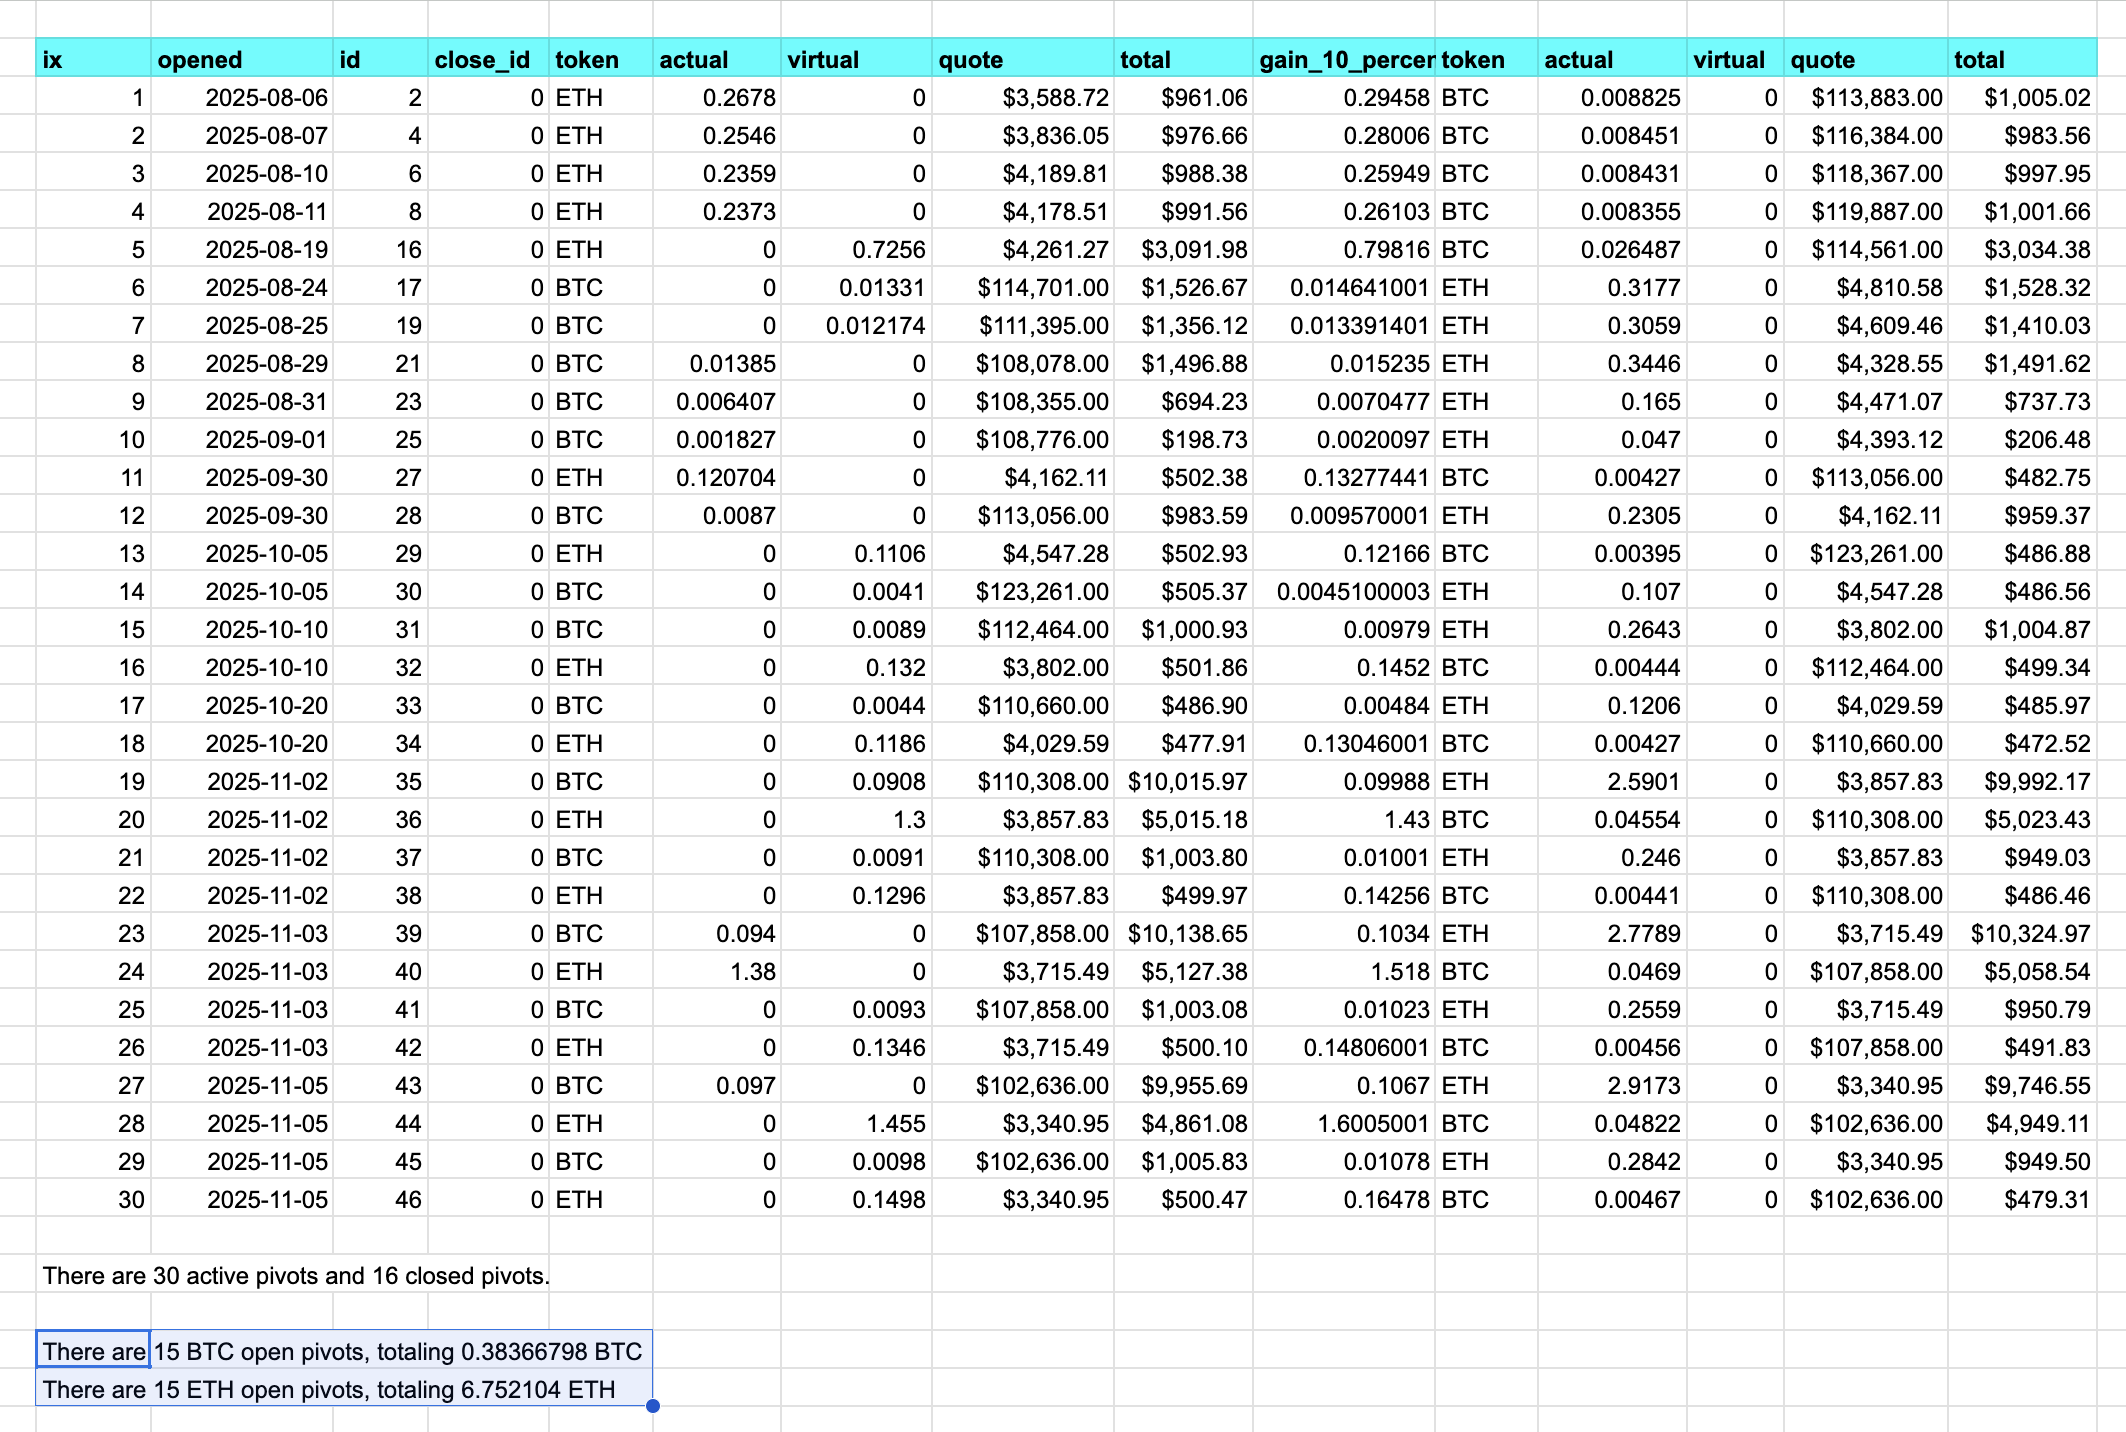
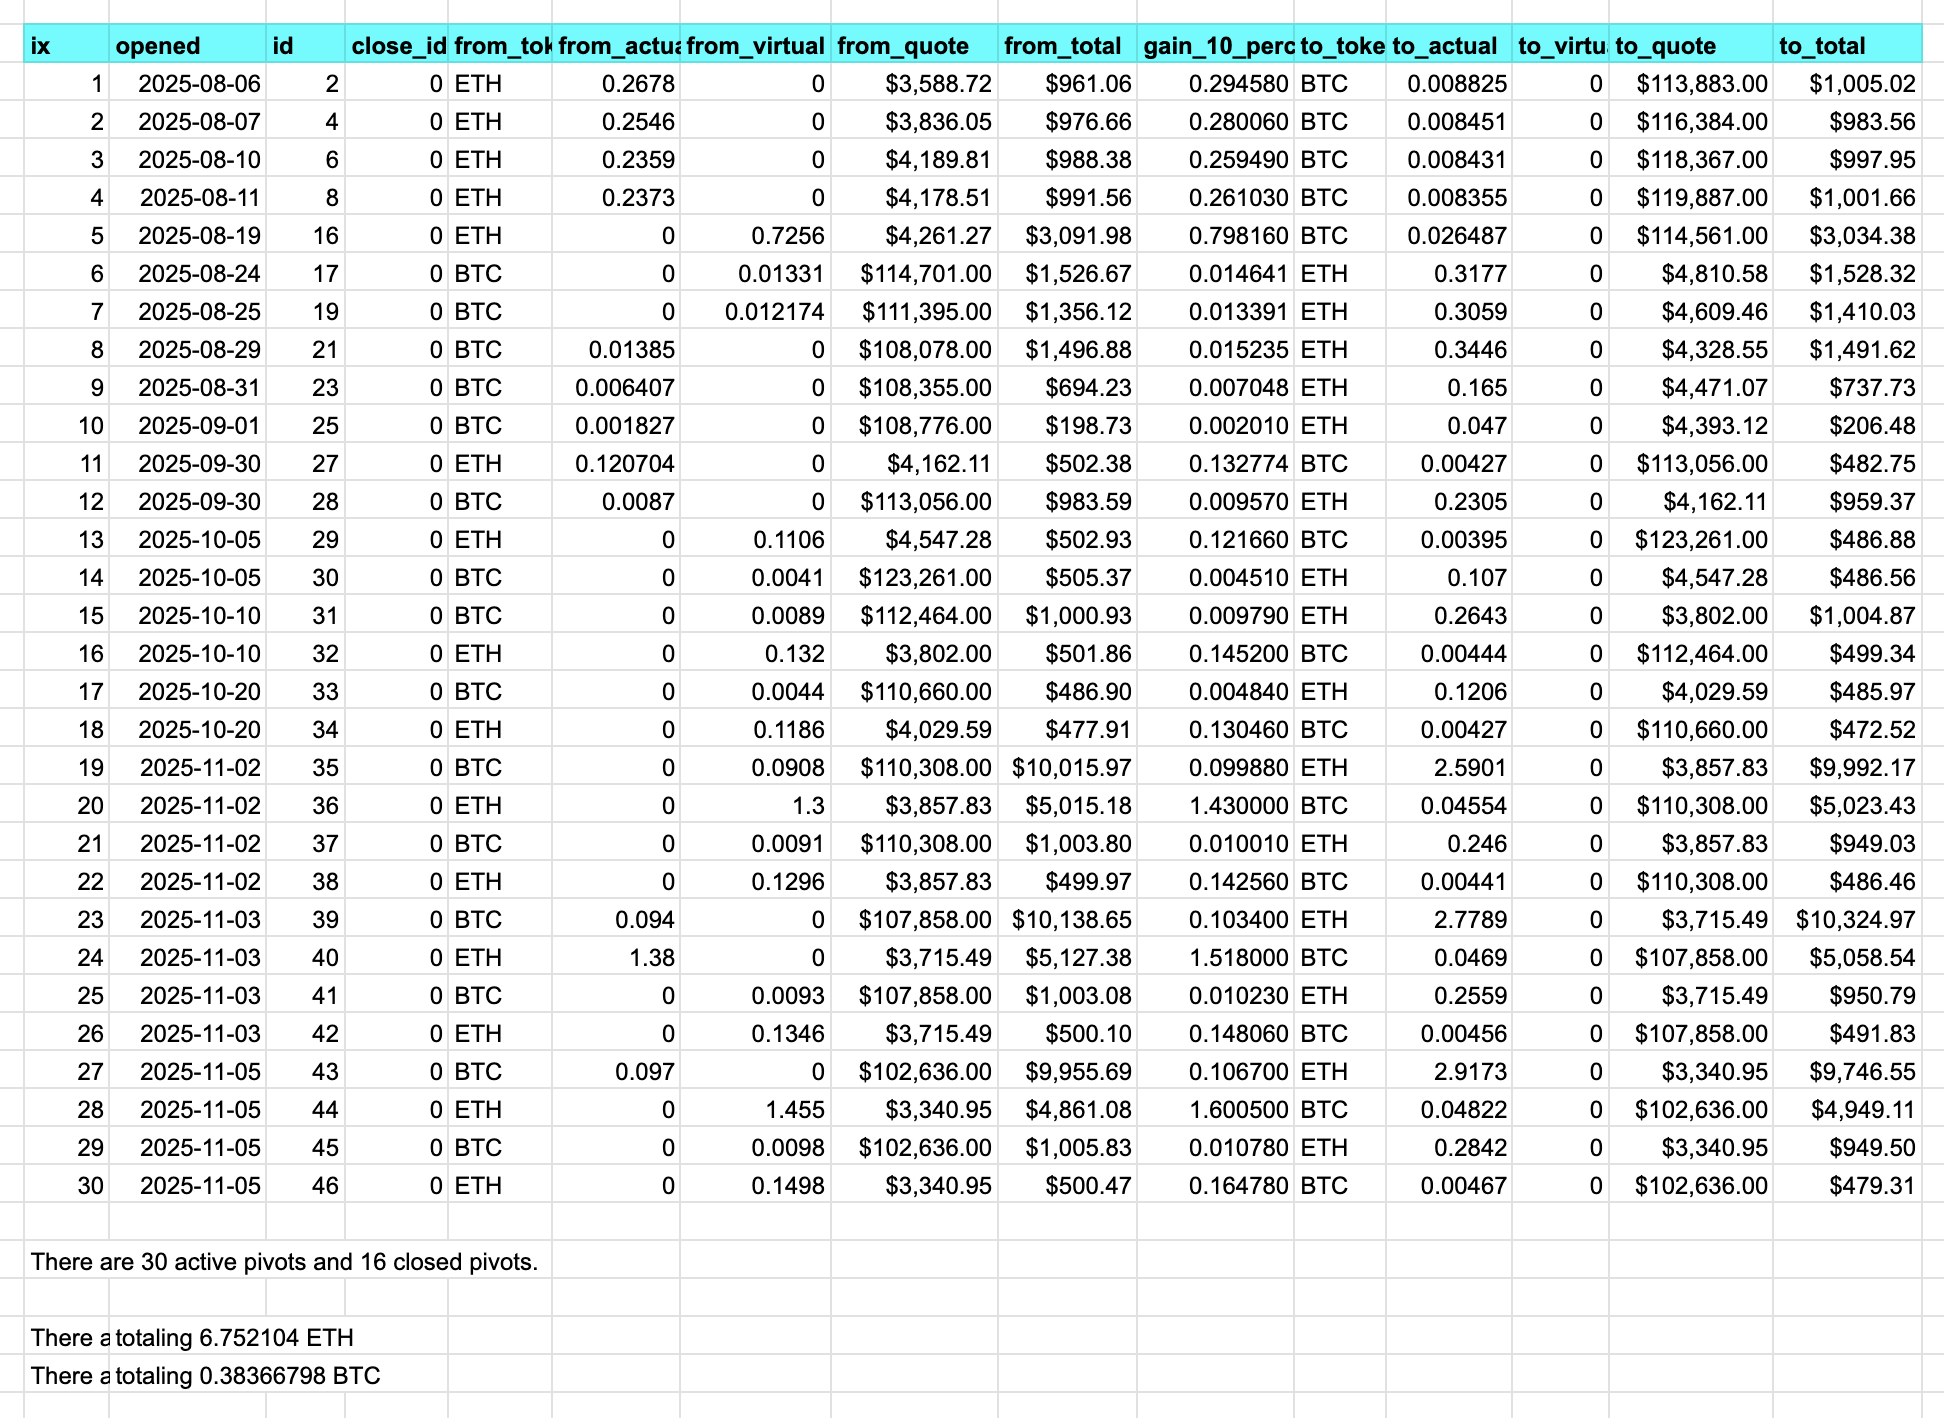
update read open pivots to handle FROM and TO more generically; moved pivots/ to lib/

diff --git a/quizzes/quiz01/b_table/src/main.rs b/quizzes/quiz01/b_table/src/main.rs
@@ -15,7 +15,7 @@ use book::{
    utils::pred
 };
 
-use pivots::paths::open_pivot_path;
+use libs::paths::open_pivot_path;
 
 trait CsvHeader {
    fn header(&self) -> String;
@@ -63,8 +63,9 @@ impl CsvWriter for Amount {
    fn ncols(&self) -> usize { 2 }
    fn as_csv(&self) -> String { format!("{},{}", self.actual, self.ersatz) }
 }
-impl CsvHeader for Amount {
-   fn header(&self) -> String { "actual,virtual".to_string() }
+
+fn kinderize(k: &AssetType, s: &[&str]) -> Vec<String> {
+   s.iter().map(|elt| format!("{}_{}", k.kind(), elt)).collect()
 }
 
 fn amount(a: &Amount) -> f32 { a.actual + a.ersatz }
@@ -76,7 +77,8 @@ fn mk_amt(actual: f32, ersatz: f32) -> Amount {
 struct Asset {
    token: String,
    amount: Amount,
-   quote: USD
+   quote: USD,
+   kind: AssetType
 }
 
 impl CsvWriter for Asset {
@@ -88,12 +90,13 @@ impl CsvWriter for Asset {
 }
 impl CsvHeader for Asset {
    fn header(&self) -> String {
-      format!("token,{},quote,total", self.amount.header()) 
+      let hdrs = kinderize(&self.kind, &["token", "quote", "total"]);
+      format!("{},{},{},{}", hdrs[0],self.kind.headers(),hdrs[1],hdrs[2]) 
    }
 }
 
-fn mk_asset(tkn: &str, amount: Amount, quote: USD) -> Asset {
-   Asset { token: tkn.to_string(), amount, quote }
+fn mk_asset(tkn: &str, amount: Amount, quote: USD, kind: AssetType) -> Asset {
+   Asset { token: tkn.to_string(), amount, quote, kind }
 }
 
 fn slice2vec(ss: &[&str]) -> Vec<String> {
@@ -104,6 +107,7 @@ fn slice2vec(ss: &[&str]) -> Vec<String> {
    vec
 }
 
+#[derive(Debug, Clone)]
 enum AssetType { FROM, TO }
 
 impl AssetType {
@@ -112,6 +116,16 @@ impl AssetType {
          AssetType::FROM => slice2vec(&["from","amount1","virtual","quote1"]),
          AssetType::TO => slice2vec(&["to","net","blah!","quote2"])
       }
+   }
+   fn kind(&self) -> String {
+      match self {
+         AssetType::FROM => "from".to_string(),
+         AssetType::TO => "to".to_string()
+      }
+   }
+   fn headers(&self) -> String {
+      let hdrs = kinderize(&self, &["actual","virtual"]);
+      format!("{},{}", hdrs[0], hdrs[1])
    }
 }
 
@@ -126,7 +140,7 @@ fn parse_asset(a: AssetType, hdrs: &HashMap<String, usize>, row: &Vec<String>)
       } else { Ok( 0.0 ) }?;
       let quot: USD = row[hdrs[qut]].parse()?;
       let amount = mk_amt(amnt, vrt);
-      Ok(mk_asset(token, amount, quot))
+      Ok(mk_asset(token, amount, quot, a))
    } else {
       Err("bad pattern match in AssetType enum for keys()".to_string())
    }

diff --git a/libs/src/lib.rs b/libs/src/lib.rs
@@ -1,4 +1,4 @@
-#![crate_name = "pivots"]
+#![crate_name = "libs"]
 
 /// Distillation of pivot pool-management
 

diff --git a/quizzes/quiz01/b_table/README.md b/quizzes/quiz01/b_table/README.md
@@ -33,9 +33,8 @@ assets</a>, which completes the reification of pivots.
 Real pivots from real data.
 
 * Finally, a touch of clean-up: the machine-representation is hard for me
-to digest, so I 
-<a href="https://github.com/pivoteur/protocol/blob/pivot-as-csv/quizzes/quiz01/b_table/src/main.rs">output 
-the results as CSV</a> and total pivots and their amounts.
+to digest, so I [output the results as CSV](src/main) and total pivots and 
+their amounts.
 
 ![Pivots as CSV](imgs/04-csv-and-amounts.png)
 

diff --git a/quizzes/quiz01/README.md b/quizzes/quiz01/README.md
@@ -11,5 +11,5 @@ problem down into a set of stepping-stones to the solution.
 
 <ol type="A">
  <li><a href="a_read">Read</a> the open pivots from a REST endpoint</li>
- <li><a href="b_table">Parse</a> the pivots into a table (WIP)</li>
+ <li><a href="b_table">Parse</a> the pivots into a table</li>
 </ol>

diff --git a/libs/README.md b/libs/README.md
@@ -1,4 +1,4 @@
-# pivots
+# libs
 
 Collection of utilities for pivot-management.
 
